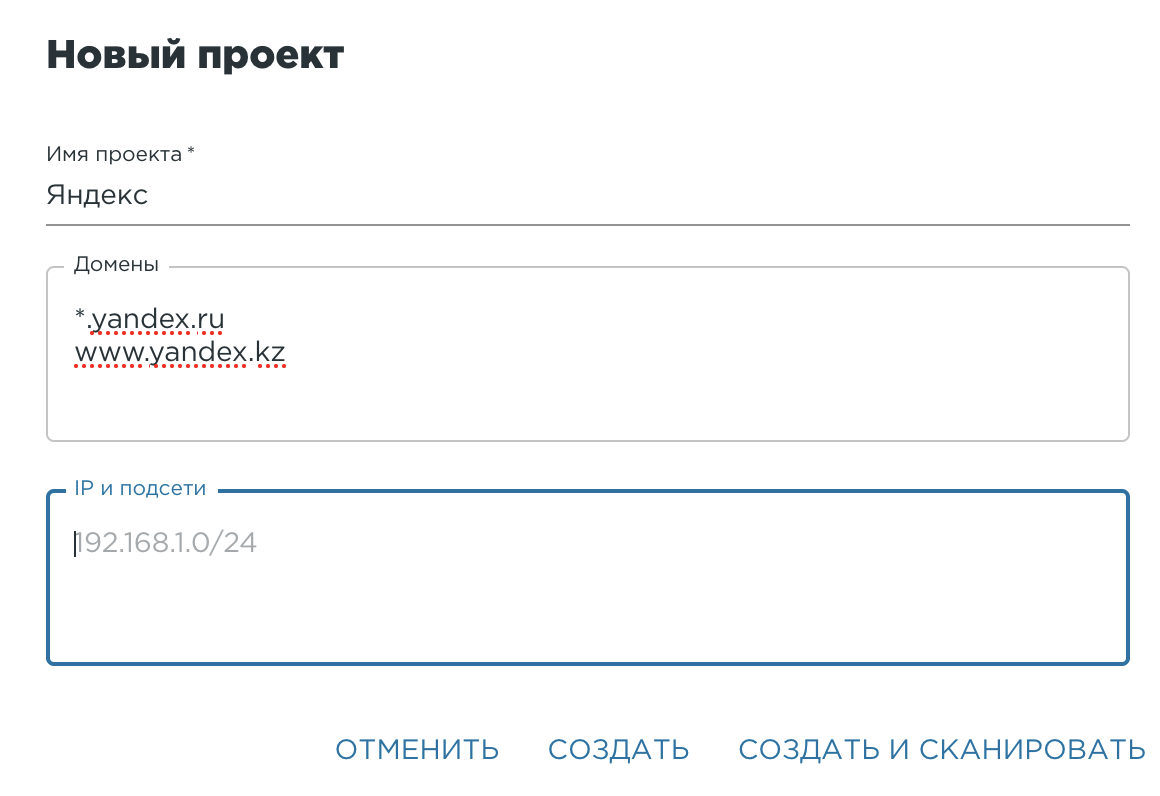
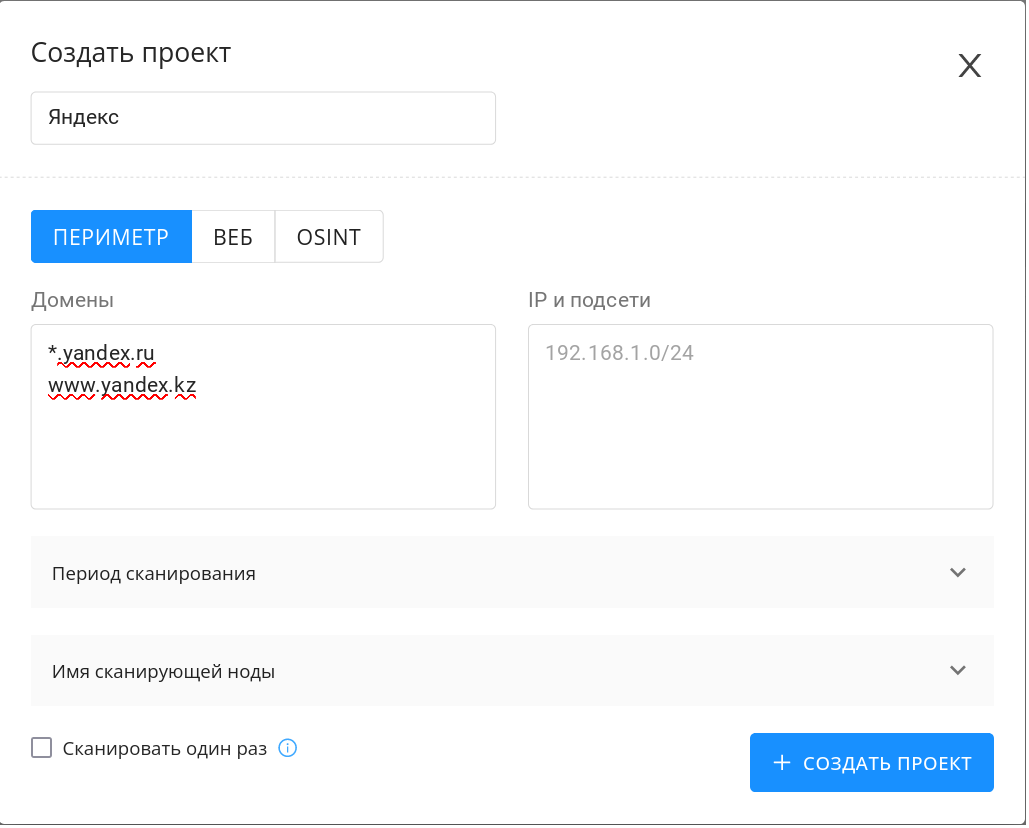
Docs and images updated

diff --git a/docs/quickstart.md b/docs/quickstart.md
@@ -9,19 +9,19 @@ order: 99
 
 ## 1. Создайте и запустите новый проект
 
-Перейдя во вкладку `Проекты` нажмите на кнопку `Создать проект` . Заполните появившуюся форму. Укажите имя проекта, цели сканирования: хотя бы один домен, вайлдкард, IP или подсеть (Рис. 1.2).
+Перейдя во вкладку `Мои проекты` нажмите на кнопку `Создать проект`.
+
+![Рис. 1.1](./static/1-1.png)
+
+Заполните появившуюся форму. Укажите имя проекта, пресет сканирования целей (ПЕРИМЕТР, WEB, OSINT: они различаются набором сканеров, по умолчанию ПЕРИМЕТР - все сканеры включены), цели сканирования: хотя бы один домен, вайлдкард, IP или подсеть. Подробнее о этапах сканирования в разделе [Техническая Документация](./technical-overview.md).
 
 ![Рис. 1.2](./static/1-2.png)
 
-Нажмите на кнопку `Создать`, если хотите провести более тонкую настройку проекта перед запуском сканирований, либо `Cоздать и сканировать`, если хотите оставить остальные параметры по умолчанию и начать скан немедленно.
+В этом окне будут дополнительные настройки сканирования, которые можно будет менять и после создания проекта. Например, период сканирования, по умолчанию проект будет запущен всегда:
 
-Некоторые из возможностей более тонкой настройки проекта:
+![Рис. 1.2.1](./static/1-2-1.png)
 
-- создание черных списков для http-ссылок, доменов и IP;
-- указание временного интервала для проведения сканирований (например, только 1:00-5:00 утра);
-- настройка и создание шаблонов сканирований отдельно для каждого инструмента.
-
-Развернутые инструкции по настройке можно найти [в разделе Техническая Документация](./technical-overview.md).
+Нажмите на кнопку `Создать проект` после внесения интересующих вас изменений. Новый проект будет на паузе, пока вы не запустите его из вкладки `Мои проекты`.
 
 !!!
 Перед стартом сканирования необходимо добавить наши IP-адреса `158.160.8.240/28` в whitelist на ваших WAF/IDS.  
@@ -29,9 +29,16 @@ order: 99
 
 ## 2. Настройте проект
 
-Выберите созданный проект из списка. Перед вами появится страница настроек (Рис. 2.1)  
+Сразу после создания проекта перед вами откроются его настройки:
 
-![Рис. 2.1](/static/1-3.png)
+![Рис. 2.1](./static/2-1.png)
+
+На этой странице вы можете:
+
+1. редактировать черные списки для http-ссылок, доменов и IP;
+2. указывать временной интервал для проведения сканирований (например, только 1:00-5:00 утра каждый день, кроме выходных);
+3. настраивать и создавать шаблоны сканирований отдельно для каждого инструмента.
+4. скачать отчет о найденных уязвимостях и сканировании по выбранному проекту
 
 - **Домены:** домены (например, `yandex.ru`) и вайлдкарды (например, `*.yandex.ru`). Вайлдкард `*.yandex.ru` означает, что сканированию подлежит домен `yandex.ru` и все его поддомены.
 - **IP и подсети:** адреса IPv4 и подсети (например, `11.22.33.44/24`).
@@ -42,41 +49,50 @@ order: 99
   - `*.sub.domain.com`
   - `https?://domain.com/foo/\w+`
 - **Исключения из blacklist-a:** Здесь можно указать исключения из черного списка. Могут быть указаны домены, вайлдкарды, регулярные выражения (для доменов), IPv4 адреса и подсети и регулярные выражения для HTTP ссылок.
-- Переключатель **"Ручное подтверждение новых активов"** означает, ни один домен не будет просканирован пока его IP-адреса не будут занесены вами в **IP и подсети**.  
+- Переключатель **"Ручное подтверждение новых активов, которые не входят в скоуп"** означает, ни один домен не будет просканирован пока его IP-адреса не будут занесены вами в **IP и подсети**.  
 Используйте её, чтобы сканирование не шло по ресурсам, которые расположены на IP-адресах сторонних организаций.  
+- **Предварительный Ping серверов:** Scanfactory будет предварительно проверять доступность указанных адресов и доменов перед сканированием, если ресурс недоступен, сканирование по нему не будет выполняться.
+
+Развернутые инструкции по настройке можно найти в разделе [Технический обзор](./technical-overview.md).
+
+Настройки шаблонов сканирования:
+
+![Рис. 2.2](./static/2-2.png)
+
+По умолчанию будут запущены все шаблоны. У каждого шаблона есть `таймаут`, максимальное время за которое одна задача должна быть завершена или время, после которого сканирование будет завершено с ошибкой, `перезапуск`, время, спустя которое сканер, связанный с данным шаблоном, заново начнет сканировать уязвимости. Например, перезапуск infrascan - 1 день: после выполнения всех задач этим сканером, повторное сканирование он будет выполнять только через 1 день.
+
+Более подробную информацию о сканерах и их настройке можно найти в разделах [Список используемых сканеров](./scanners.md) и [Решение проблем](./problems.md).
 
 !!!
-Ручное подтверждение новых активов "Включено" (по умолчанию) - добавляйте IP адреса интересующих Вас доменов вручную, иначе они не будут просканированы.  
-Ручное подтверждение новых активов "Выключено" - IP адреса доменов проекта будут заноситься в скоуп автоматически.  
+Ручное подтверждение новых активов "Включено" - добавляйте IP адреса интересующих Вас доменов вручную, иначе они не будут просканированы.  
+Ручное подтверждение новых активов "Выключено" (по умолчанию) - IP адреса доменов проекта будут заноситься в скоуп автоматически.  
 !!!
 
-Вы можете провести тонкую конфигурацию запускаемых сканеров. Подробнее об этом - в разделе [Технический обзор ScanFactory](/technical-overview.md) 
+Вы можете провести тонкую конфигурацию запускаемых сканеров. Подробнее об этом - в разделе [Технический обзор ScanFactory](/technical-overview.md)
 
-## 3. Дашборд
-
-В данном разделе отображается сводная статистика работы Системы.
+## 3. Боковая панель
 
 ![Рис. 3.1](./static/3-1.png)
 
-## 4. Активы
+На боковой панели вы можете найти все разделы, необходимые для управления.
+Мои проекты, Дашборд, Угрозы, Активы, SSL-сертификаты, HTTP-запросы, История проверок, а также Настройки проекта и ссылка на данную документацию.
 
-Активы - страница, которая отображает текущее состояние инфраструктуры Заказчика.
-
-После окончания сканирования на странице Активов будут отображены найденные IP, порты и домены.
+## 4. Дашборд
 
 ![Рис. 4.1](./static/4-1.png)
 
-## 5. Уязвимости
+На данной странице отображена сводная статиска по выбранному проекту или системе.
 
-Функционал раздела “Уязвимости” позволяет:
+## 5. Угрозы
+
+![Рис. 5.1](./static/5-1.png)
+Функционал раздела "Угрозы" позволяет:
 
 - Просматривать все обнаруженные уязвимости;  
 - Управлять статусом уязвимостей;  
 - Выполнять поиск и фильтрацию уязвимостей по заданным параметрам;  
 - Просмотреть подробную информацию об уязвимости в карточке уязвимости;  
-- Выгрузить события в формате JSON.  
-
-![Рис. 5.1](./static/5-1.png)
+- Выгрузить события в формате JSON.
 
 Нажав на название уязвимости возможно перейти на карточку уязвимости, и получить подробную информацию о ней.  
 В карточке уязвимости указаны:
@@ -91,7 +107,33 @@ order: 99
 
 ![Рис. 5.2](./static/5-2.png)
 
-## 6. Подключение телеграм-бота
+## 6. Активы
+
+Активы - страница, которая отображает текущее состояние инфраструктуры Заказчика.
+
+После окончания сканирования на странице Активов будут отображены найденные IP, порты и домены. Важные записи на странице можно закреплять. Отчет об активе можно скачать, нажав на соответствующую кнопку в колонке `Отчет`. Для доменов доступны скриншоты страницы для стандартных портов, отчеты сканера dirsearch доступны по нажатию на интересующий найденный порт, и отчеты по активу, как и для IP.
+
+![Рис. 6.1](./static/6-1.png)
+
+## 7. SSL-сертификаты
+
+На этой странице показаны найденные SSL-сертификаты, для какого они хоста, на каких портах, кем сертификат выдан, алгоритм шифрования, размер ключа и дата истечения сертификата.
+
+![Рис. 7.1](./static/7-1.png)
+
+## 8. HTTP-запросы
+
+На этой странице показаны все запросы к найденным доменам, коды ответа, путь, на который был отправлен запрос, хост и порт. При нажатии на запрос вы увидите дополнительную информацию, подробности запроса и ответа.
+
+![Рис. 8.1](./static/8-1.png)
+
+## 9. История проверок
+
+На данной странице вы найдете все проверки, производимые сканерами. Таблица поддерживает фильтрацию по шаблону, по статусам сканов, времени создания и обновления задачи, а также поиск по хостам.
+
+![Рис. 9.1](./static/9-1.png)
+
+## 10. Подключение телеграм-бота
 
 Начните диалог с телеграм-ботом: [`@scanfactory_reporter_bot`](https://t.me/scanfactory_reporter_bot)
 
